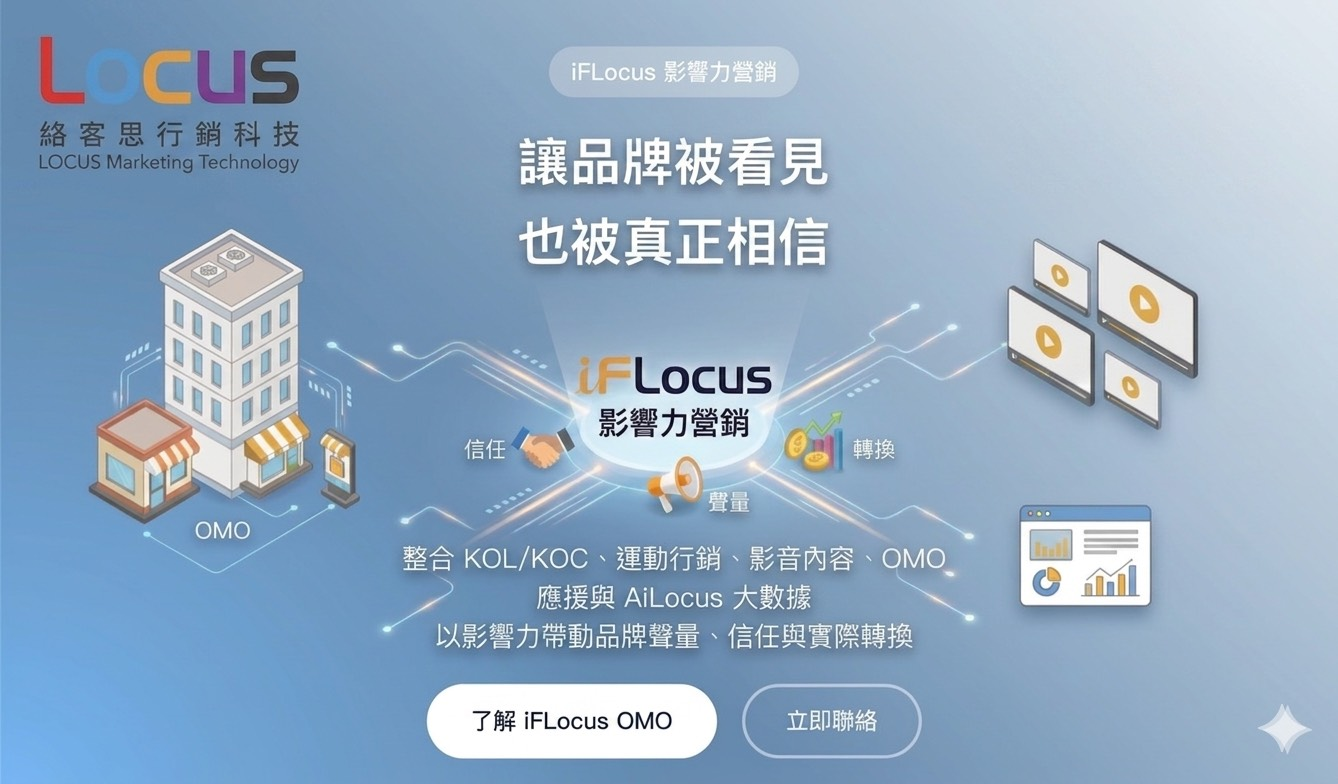
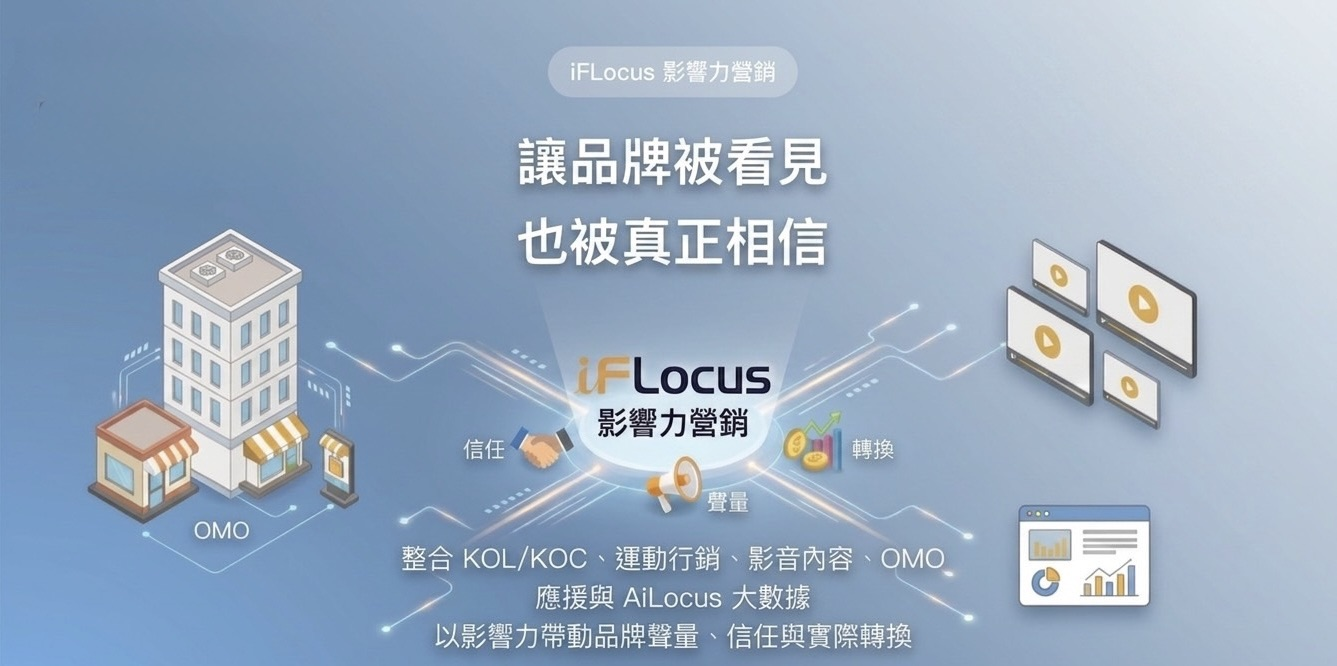
Replace homepage hero image

diff --git a/css/style.css b/css/style.css
@@ -560,9 +560,9 @@ section { padding: 80px 0; }
 .page-hero.hero-scenic.hero-home {
   --hero-image: url("../images/home-hero-iflocus-desktop.jpg");
   min-height: 0;
-  height: 58.6vw;
+  height: 49.81vw;
   max-height: calc(100vh - 72px);
-  aspect-ratio: 1338 / 784;
+  aspect-ratio: 1337 / 666;
   margin-top: 72px;
   padding: 0;
   text-align: center;
@@ -1134,8 +1134,8 @@ section { padding: 80px 0; }
 
   .page-hero.hero-scenic.hero-home {
     min-height: 0;
-    height: 58.6vw;
-    aspect-ratio: 1338 / 784;
+    height: 49.81vw;
+    aspect-ratio: 1337 / 666;
     background-image: var(--hero-image);
     background-size: contain;
     background-position: center top;
